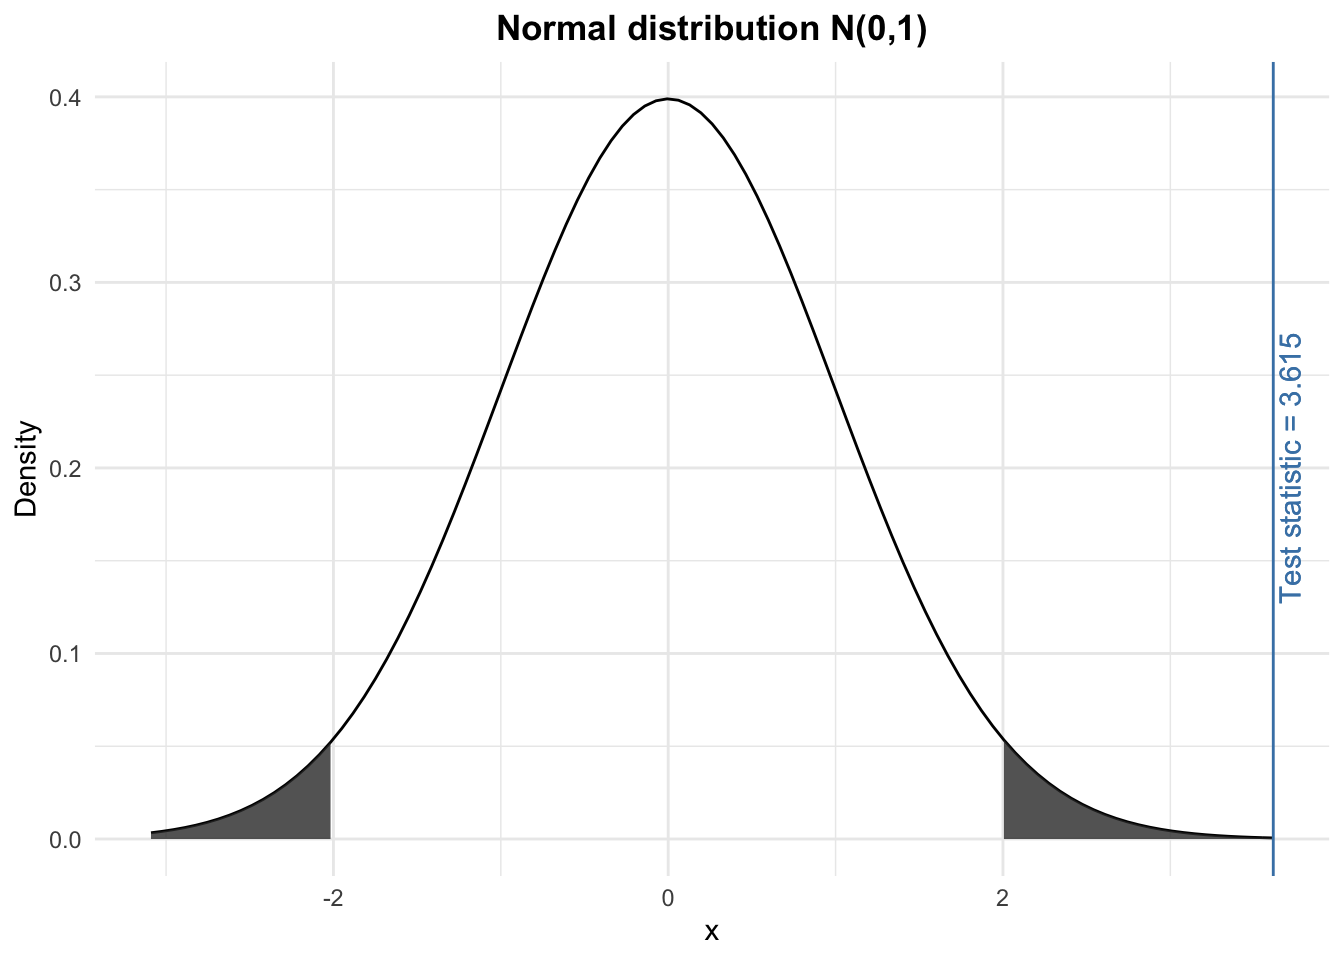
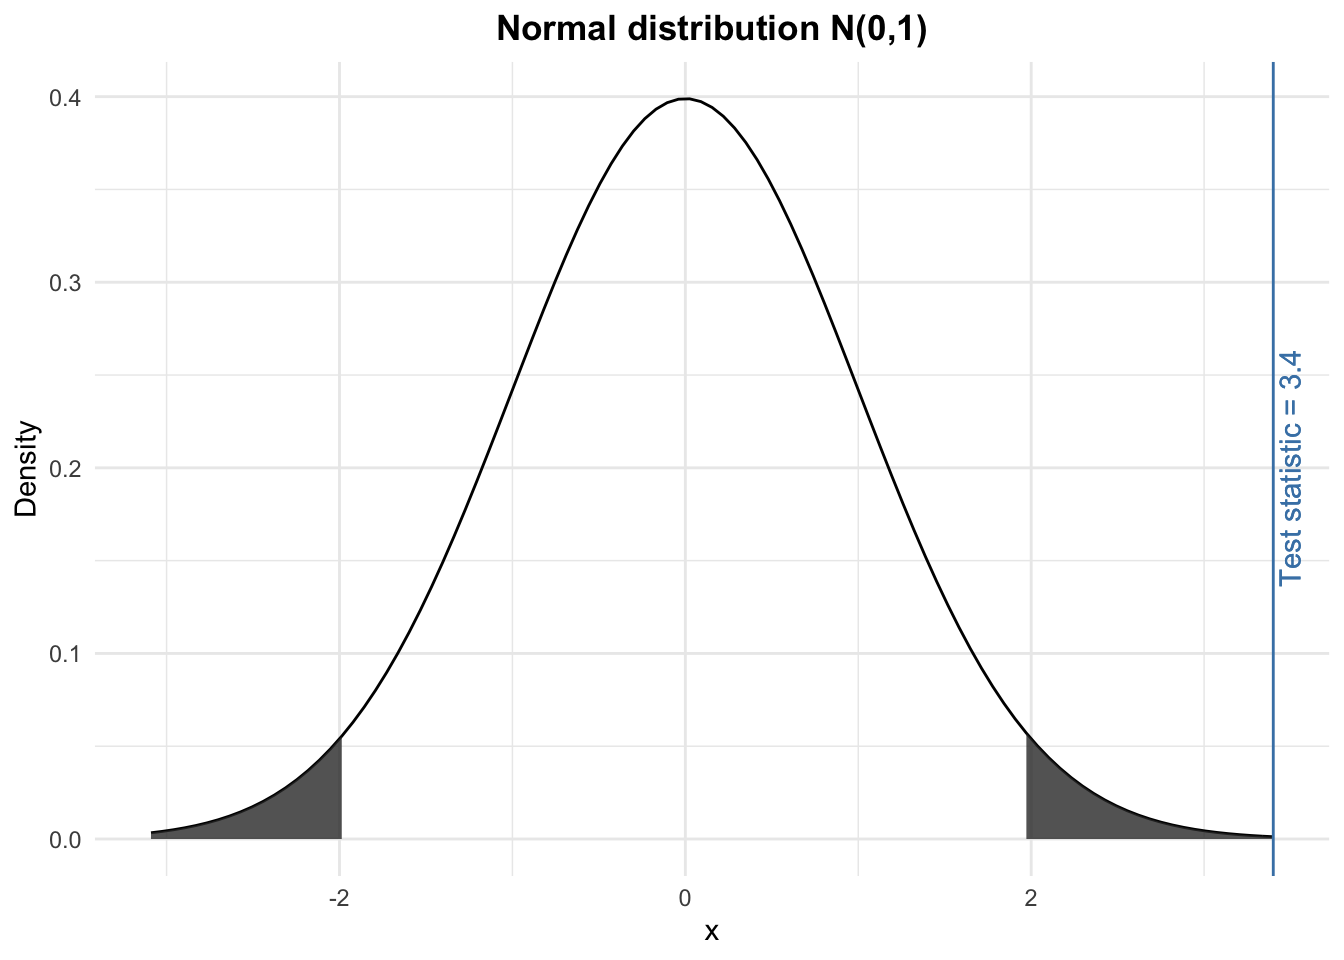
edit formula of one proportion test

diff --git a/content/blog/2020-05-13-one-proportion-and-goodness-of-fit-test-in-r-and-by-hand.html b/content/blog/2020-05-13-one-proportion-and-goodness-of-fit-test-in-r-and-by-hand.html
@@ -341,7 +341,7 @@ test</code></pre>
 <p>where <span class="math inline">\(p_0\)</span> is the expected proportion of landing on heads.</p>
 <p><strong>Step 2.</strong></p>
 <p>The test statistic is:<a href="#fn3" class="footnote-ref" id="fnref3"><sup>3</sup></a></p>
-<p><span class="math display">\[z_{obs} = \frac{\hat{p} - p_0}{\sqrt{\frac{\hat{p}(1 - \hat{p})}{n}}} = \frac{0.67 - 0.5}{\sqrt{\frac{0.67 \cdot (1 - 0.67)}{100}}} = 3.615\]</span></p>
+<p><span class="math display">\[z_{obs} = \frac{\hat{p} - p_0}{\sqrt{\frac{p_0(1 - p_0)}{n}}} = \frac{0.67 - 0.5}{\sqrt{\frac{0.5 \cdot (1 - 0.5)}{100}}} = 3.4\]</span></p>
 <p>(See how to perform <a href="/blog/a-shiny-app-for-inferential-statistics-by-hand/">hypothesis tests in a Shiny app</a> if you need more help in computing the test statistic.)</p>
 <p><strong>Step 3.</strong></p>
 <p>The rejection region is found via the normal distribution table. Assuming a significance level <span class="math inline">\(\alpha = 0.05\)</span>, we have:</p>

diff --git a/public/blog/one-proportion-and-goodness-of-fit-test-in-r-and-by-hand/index.html b/public/blog/one-proportion-and-goodness-of-fit-test-in-r-and-by-hand/index.html
@@ -484,7 +484,7 @@ test</code></pre>
 <p>where <span class="math inline">\(p_0\)</span> is the expected proportion of landing on heads.</p>
 <p><strong>Step 2.</strong></p>
 <p>The test statistic is:<a href="#fn3" class="footnote-ref" id="fnref3"><sup>3</sup></a></p>
-<p><span class="math display">\[z_{obs} = \frac{\hat{p} - p_0}{\sqrt{\frac{\hat{p}(1 - \hat{p})}{n}}} = \frac{0.67 - 0.5}{\sqrt{\frac{0.67 \cdot (1 - 0.67)}{100}}} = 3.615\]</span></p>
+<p><span class="math display">\[z_{obs} = \frac{\hat{p} - p_0}{\sqrt{\frac{p_0(1 - p_0)}{n}}} = \frac{0.67 - 0.5}{\sqrt{\frac{0.5 \cdot (1 - 0.5)}{100}}} = 3.4\]</span></p>
 <p>(See how to perform <a href="/blog/a-shiny-app-for-inferential-statistics-by-hand/">hypothesis tests in a Shiny app</a> if you need more help in computing the test statistic.)</p>
 <p><strong>Step 3.</strong></p>
 <p>The rejection region is found via the normal distribution table. Assuming a significance level <span class="math inline">\(\alpha = 0.05\)</span>, we have:</p>
